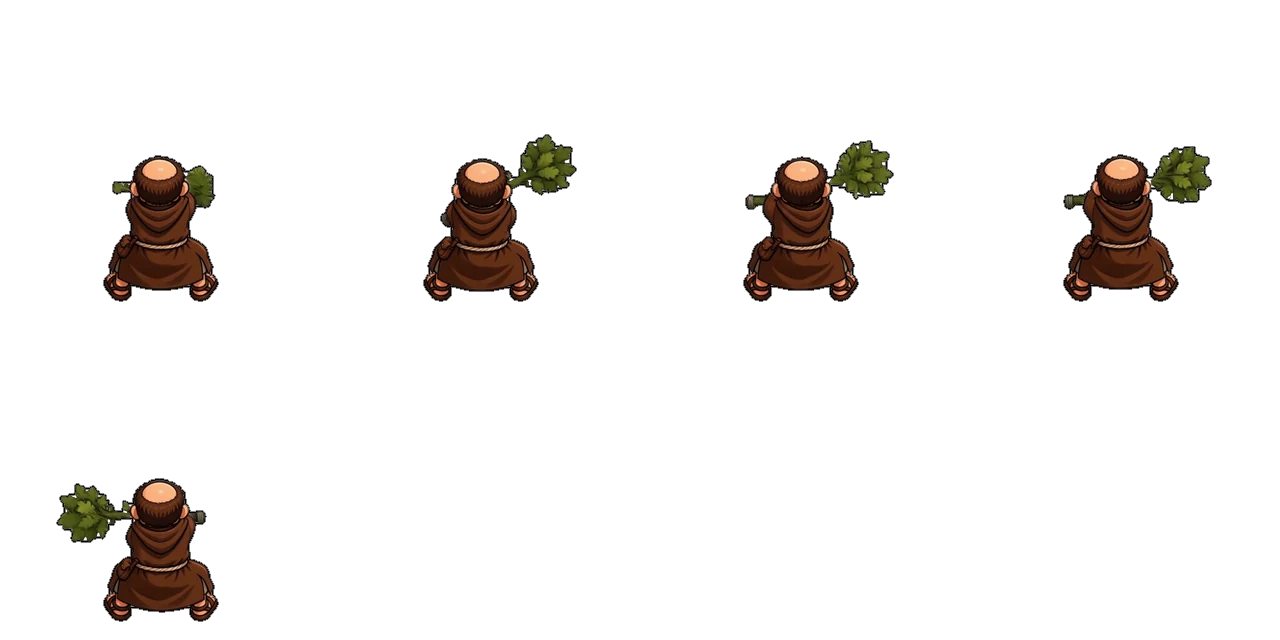
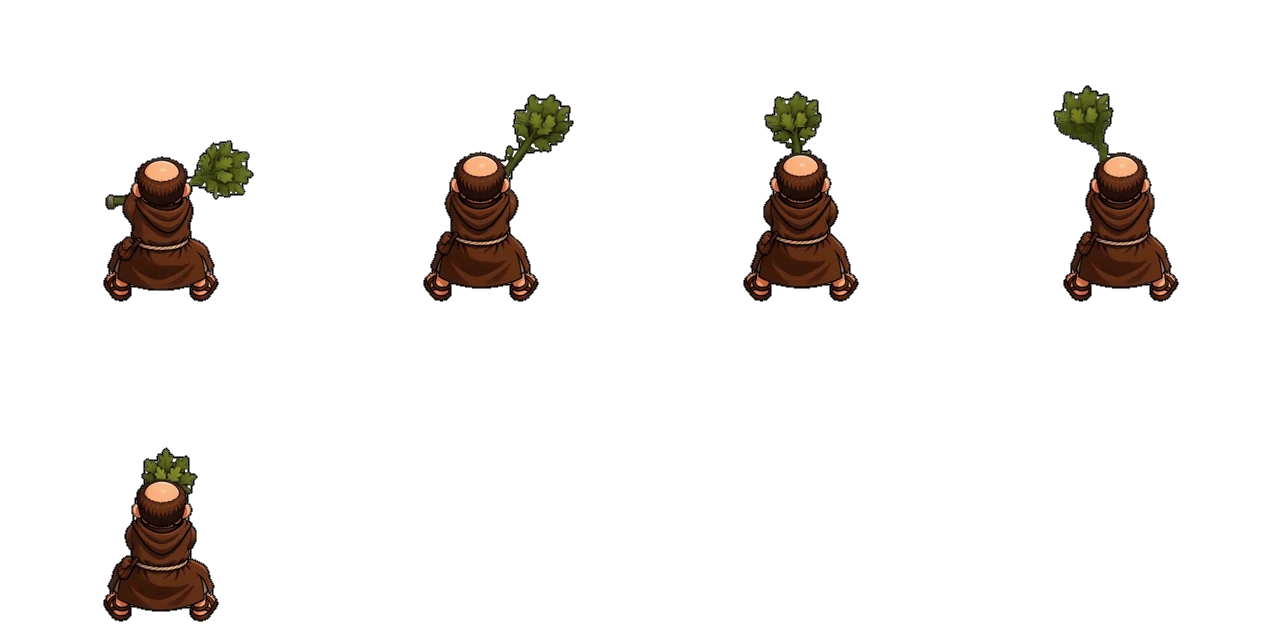
Atac amunt amb la branca del Til·ler refet a partir de tiller_v1 i retocat a mà
- Fotogrames 5, 2, 1, 7, 10 de tiller_v1/up.png; la branca ha estat completada a mà (art/ineu/atac_arma/tiller_up_per_editar.png)
- Eines: fer_atac_tiller_up_editable.py (full sense contorn) i contorn_tiller_up.py (contorn d'1 px i desa a assets)
- Proves d'AutoSprite apartades a art/ineu/no_usats/
- Versions de memòria cau (Service Worker runna-125)

diff --git a/index.html b/index.html
@@ -32,7 +32,7 @@
     <!-- Tipografies al nostre servidor (eines/baixa_tipografies.py): el joc no demana res a Google -->
     <link rel="stylesheet" href="assets/fonts/fonts.css">
     <!-- Phaser va amb el joc (així no depèn de cap servidor extern); si el fitxer local fallés, es prova el CDN -->
-    <script src="js/lib/phaser.min.js?v=2611143100.80.1"></script>
+    <script src="js/lib/phaser.min.js?v=2611143900.80.1"></script>
     <script>if (typeof Phaser === 'undefined') document.write('<script src="https://cdn.jsdelivr.net/npm/phaser@3.80.1/dist/phaser.min.js"><\/script>');</script>
 </head>
 <body>
@@ -61,60 +61,60 @@
     <div id="joc"></div>
 
     <!-- L'ordre importa: cada fitxer fa servir coses dels anteriors -->
-    <script src="js/sfx.js?v=2611143100"></script>
-    <script src="js/partida.js?v=2611143100"></script>
-    <script src="js/progres.js?v=2611143100"></script>
-    <script src="js/dibuixos.js?v=2611143100"></script>
-    <script src="js/icones.js?v=2611143100"></script>
-    <script src="js/dibuixos_biblio.js?v=2611143100"></script>
-    <script src="js/dibuixos_cela.js?v=2611143100"></script>
-    <script src="js/dibuixos_taller.js?v=2611143100"></script>
-    <script src="js/dibuixos_georgi.js?v=2611143100"></script>
-    <script src="js/dibuixos_oratori.js?v=2611143100"></script>
-    <script src="js/dibuixos_ermita.js?v=2611143100"></script>
-    <script src="js/dibuixos_casa.js?v=2611143100"></script>
-    <script src="js/dibuixos_proleg.js?v=2611143100"></script>
-    <script src="js/dibuixos_pingpong.js?v=2611143100"></script>
-    <script src="js/assets.js?v=2611143100"></script>
-    <script src="js/dialegs.js?v=2611143100"></script>
-    <script src="js/ui.js?v=2611143100"></script>
-    <script src="js/zona_base.js?v=2611143100"></script>
-    <script src="js/atac_arma.js?v=2611143100"></script>
-    <script src="js/combat.js?v=2611143100"></script>
-    <script src="js/musica.js?v=2611143100"></script>
-    <script src="js/zones/placa.js?v=2611143100"></script>
-    <script src="js/zones/esglesia.js?v=2611143100"></script>
-    <script src="js/zones/monestir.js?v=2611143100"></script>
-    <script src="js/zones/bassadoria.js?v=2611143100"></script>
-    <script src="js/zones/casa_gran.js?v=2611143100"></script>
-    <script src="js/zones/esglesia_nova.js?v=2611143100"></script>
-    <script src="js/zones/nord.js?v=2611143100"></script>
-    <script src="js/zones/cirosa.js?v=2611143100"></script>
-    <script src="js/estels.js?v=2611143100"></script>
-    <script src="js/pingpong.js?v=2611143100"></script>
-    <script src="js/credits.js?v=2611143100"></script>
-    <script src="js/zones/oest.js?v=2611143100"></script>
-    <script src="js/zones/bosc_pi.js?v=2611143100"></script>
-    <script src="js/zones/cementiri.js?v=2611143100"></script>
-    <script src="js/zones/casa.js?v=2611143100"></script>
-    <script src="js/zones/cabana.js?v=2611143100"></script>
-    <script src="js/zones/cami.js?v=2611143100"></script>
-    <script src="js/zones/ermita.js?v=2611143100"></script>
-    <script src="js/zones/era.js?v=2611143100"></script>
-    <script src="js/zones/jardi.js?v=2611143100"></script>
-    <script src="js/zones/torre.js?v=2611143100"></script>
-    <script src="js/zones/hostatgeria.js?v=2611143100"></script>
-    <script src="js/zones/taverna.js?v=2611143100"></script>
-    <script src="js/zones/gabia.js?v=2611143100"></script>
-    <script src="js/zones/gabia_decor.js?v=2611143100"></script>
-    <script src="js/zones/biblioteca.js?v=2611143100"></script>
-    <script src="js/zones/rebedor.js?v=2611143100"></script>
-    <script src="js/zones/cela.js?v=2611143100"></script>
-    <script src="js/diari.js?v=2611143100"></script>
-    <script src="js/mapa.js?v=2611143100"></script>
-    <script src="js/proves.js?v=2611143100"></script>
-    <script src="js/intro.js?v=2611143100"></script>
-    <script src="js/main.js?v=2611143100"></script>
+    <script src="js/sfx.js?v=2611143900"></script>
+    <script src="js/partida.js?v=2611143900"></script>
+    <script src="js/progres.js?v=2611143900"></script>
+    <script src="js/dibuixos.js?v=2611143900"></script>
+    <script src="js/icones.js?v=2611143900"></script>
+    <script src="js/dibuixos_biblio.js?v=2611143900"></script>
+    <script src="js/dibuixos_cela.js?v=2611143900"></script>
+    <script src="js/dibuixos_taller.js?v=2611143900"></script>
+    <script src="js/dibuixos_georgi.js?v=2611143900"></script>
+    <script src="js/dibuixos_oratori.js?v=2611143900"></script>
+    <script src="js/dibuixos_ermita.js?v=2611143900"></script>
+    <script src="js/dibuixos_casa.js?v=2611143900"></script>
+    <script src="js/dibuixos_proleg.js?v=2611143900"></script>
+    <script src="js/dibuixos_pingpong.js?v=2611143900"></script>
+    <script src="js/assets.js?v=2611143900"></script>
+    <script src="js/dialegs.js?v=2611143900"></script>
+    <script src="js/ui.js?v=2611143900"></script>
+    <script src="js/zona_base.js?v=2611143900"></script>
+    <script src="js/atac_arma.js?v=2611143900"></script>
+    <script src="js/combat.js?v=2611143900"></script>
+    <script src="js/musica.js?v=2611143900"></script>
+    <script src="js/zones/placa.js?v=2611143900"></script>
+    <script src="js/zones/esglesia.js?v=2611143900"></script>
+    <script src="js/zones/monestir.js?v=2611143900"></script>
+    <script src="js/zones/bassadoria.js?v=2611143900"></script>
+    <script src="js/zones/casa_gran.js?v=2611143900"></script>
+    <script src="js/zones/esglesia_nova.js?v=2611143900"></script>
+    <script src="js/zones/nord.js?v=2611143900"></script>
+    <script src="js/zones/cirosa.js?v=2611143900"></script>
+    <script src="js/estels.js?v=2611143900"></script>
+    <script src="js/pingpong.js?v=2611143900"></script>
+    <script src="js/credits.js?v=2611143900"></script>
+    <script src="js/zones/oest.js?v=2611143900"></script>
+    <script src="js/zones/bosc_pi.js?v=2611143900"></script>
+    <script src="js/zones/cementiri.js?v=2611143900"></script>
+    <script src="js/zones/casa.js?v=2611143900"></script>
+    <script src="js/zones/cabana.js?v=2611143900"></script>
+    <script src="js/zones/cami.js?v=2611143900"></script>
+    <script src="js/zones/ermita.js?v=2611143900"></script>
+    <script src="js/zones/era.js?v=2611143900"></script>
+    <script src="js/zones/jardi.js?v=2611143900"></script>
+    <script src="js/zones/torre.js?v=2611143900"></script>
+    <script src="js/zones/hostatgeria.js?v=2611143900"></script>
+    <script src="js/zones/taverna.js?v=2611143900"></script>
+    <script src="js/zones/gabia.js?v=2611143900"></script>
+    <script src="js/zones/gabia_decor.js?v=2611143900"></script>
+    <script src="js/zones/biblioteca.js?v=2611143900"></script>
+    <script src="js/zones/rebedor.js?v=2611143900"></script>
+    <script src="js/zones/cela.js?v=2611143900"></script>
+    <script src="js/diari.js?v=2611143900"></script>
+    <script src="js/mapa.js?v=2611143900"></script>
+    <script src="js/proves.js?v=2611143900"></script>
+    <script src="js/intro.js?v=2611143900"></script>
+    <script src="js/main.js?v=2611143900"></script>
     <script>
         // Service worker: només amb http(s) (no obrint el fitxer directament) i sense fer fallar el joc si no pot ser
         window.addEventListener('load', () => { try { if (typeof game !== 'undefined') sessionStorage.removeItem('runna_reintent'); } catch (e) { } });

diff --git a/js/assets.js b/js/assets.js
@@ -344,7 +344,7 @@ const Grafics = {
         DIRS_INEU.forEach(dir => {
             const mida = { frameWidth: SPRITE_INEU.ample, frameHeight: SPRITE_INEU.alt };
             scene.load.spritesheet('ineu_' + dir, rutaIneu(dir, false), mida);
-            ATAC_ARMES.forEach(arma => scene.load.spritesheet(`ineu_atac_${arma}_${dir}`, `assets/ineu/atac/atac_${arma}_${dir}.webp?v=2611143100`, { frameWidth: ATAC_CEL, frameHeight: ATAC_CEL }));
+            ATAC_ARMES.forEach(arma => scene.load.spritesheet(`ineu_atac_${arma}_${dir}`, `assets/ineu/atac/atac_${arma}_${dir}.webp?v=2611143900`, { frameWidth: ATAC_CEL, frameHeight: ATAC_CEL }));
         });
         [...new Set(Object.values(IDLE_INEU))].forEach(dir => {
             const mida = { frameWidth: SPRITE_INEU.ample, frameHeight: SPRITE_INEU.alt };

diff --git a/sw.js b/sw.js
@@ -9,7 +9,7 @@
  * No hi ha cap llista de fitxers: es guarda el que el joc va demanant mentre es juga (uns 50 MB com a molt).
  * Per esborrar el que ha guardat: puja el número de VERSIO (es buida la memòria de les versions anteriors).
  */
-const VERSIO = 'runna-117';
+const VERSIO = 'runna-125';
 
 self.addEventListener('install', () => self.skipWaiting());
 

diff --git a/eines/fer_atac_tiller_up_editable.py b/eines/fer_atac_tiller_up_editable.py
@@ -1,0 +1,39 @@
+"""Full de l'atac AMUNT amb la branca del Til·ler, SENSE contorn, per retocar-lo a mà (Photoshop) abans de passar-lo al joc.
+
+Agafa uns fotogrames escollits (comptant des de 1) de l'original art/ineu/atac_arma/tiller_v1/up.png (4x4 de 384) i els col·loca amb la mateixa escala i els mateixos
+peus que fa servir eines/fer_atac_arma.py, a cel·les de 320 px (4 columnes, 5 fotogrames), SENSE el contorn d'1 px.
+
+    python eines/fer_atac_tiller_up_editable.py [fotogrames comptats des de 1, ex.: 5 2 1 7 10]
+Escriu art/ineu/atac_arma/tiller_up_per_editar.png (RGBA, 1280x640). Un cop retocat, cal posar-hi el contorn i convertir-lo a assets/ineu/atac/atac_tiller_up.webp
+(vegeu eines/contorn_tiller_up.py).
+"""
+import sys
+import numpy as np
+from PIL import Image
+import fer_atac_arma as f
+
+FOTS_DEFECTE = [5, 2, 1, 7, 10]        # comptats des de 1
+SORTIDA = f.ARREL / 'art' / 'ineu' / 'atac_arma' / 'tiller_up_per_editar.png'
+
+
+def main():
+    fots = [int(x) - 1 for x in (sys.argv[1:] or FOTS_DEFECTE)]
+    im = Image.open(f.ORIGEN / 'tiller_v1' / 'up.png').convert('RGBA')
+    pf = f.peus(im, range(16))
+    K = f.escala(im, 'tiller', False)
+    n = len(fots); cols = 4; files = (n + cols - 1) // cols
+    out = Image.new('RGBA', (cols * f.CEL, files * f.CEL), (0, 0, 0, 0))
+    for j, i in enumerate(fots):
+        fo = f.fotograma(im, i)
+        g = fo.resize((round(f.SRC * K), round(f.SRC * K)), Image.LANCZOS)
+        cel = Image.new('RGBA', (f.CEL, f.CEL), (0, 0, 0, 0))
+        dx, dy = round(f.CEL / 2 - f.centre_peus(fo, None, True) * K), round(f.CEL * 0.9375 - pf * K)
+        cel.paste(g, (dx, dy), g)
+        out.paste(cel, ((j % cols) * f.CEL, (j // cols) * f.CEL))
+    SORTIDA.parent.mkdir(parents=True, exist_ok=True)
+    out.save(SORTIDA)
+    print(SORTIDA, out.size, 'fotogrames (des de 1):', [i + 1 for i in fots], 'K', round(K, 3))
+
+
+if __name__ == '__main__':
+    main()

diff --git a/eines/contorn_tiller_up.py b/eines/contorn_tiller_up.py
@@ -1,0 +1,34 @@
+"""Posa el contorn d'1 px (el mateix dels altres atacs) al full retocat de l'atac AMUNT amb la branca del Til·ler i el desa al joc.
+
+    art/ineu/atac_arma/tiller_up_per_editar.png  →  assets/ineu/atac/atac_tiller_up.webp
+
+El PNG s'ha generat amb eines/fer_atac_tiller_up_editable.py (sense contorn) i s'ha retocat a mà. Cel·les de 320 px, 4 columnes.
+"""
+import numpy as np
+from PIL import Image
+import fer_atac_arma as f
+
+ORIGEN = f.ARREL / 'art' / 'ineu' / 'atac_arma' / 'tiller_up_per_editar.png'
+DEST = f.DEST / 'atac_tiller_up.webp'
+
+
+def main():
+    im = Image.open(ORIGEN).convert('RGBA')
+    out = Image.new('RGBA', im.size, (0, 0, 0, 0))
+    for y in range(0, im.size[1], f.CEL):
+        for x in range(0, im.size[0], f.CEL):
+            cel = im.crop((x, y, x + f.CEL, y + f.CEL))
+            a = np.array(cel)
+            if not (a[:, :, 3] > 0).any():
+                continue
+            vora = np.zeros_like(a)
+            vora[:, :, 3] = (f.alfa_contorn(a[:, :, 3], f.GRUIX) * 255).astype(np.uint8)
+            base = Image.fromarray(vora, 'RGBA')
+            base.alpha_composite(cel)
+            out.paste(base, (x, y))
+    out.save(DEST, 'WEBP', quality=88, alpha_quality=100, method=6)
+    print(DEST, out.size)
+
+
+if __name__ == '__main__':
+    main()
